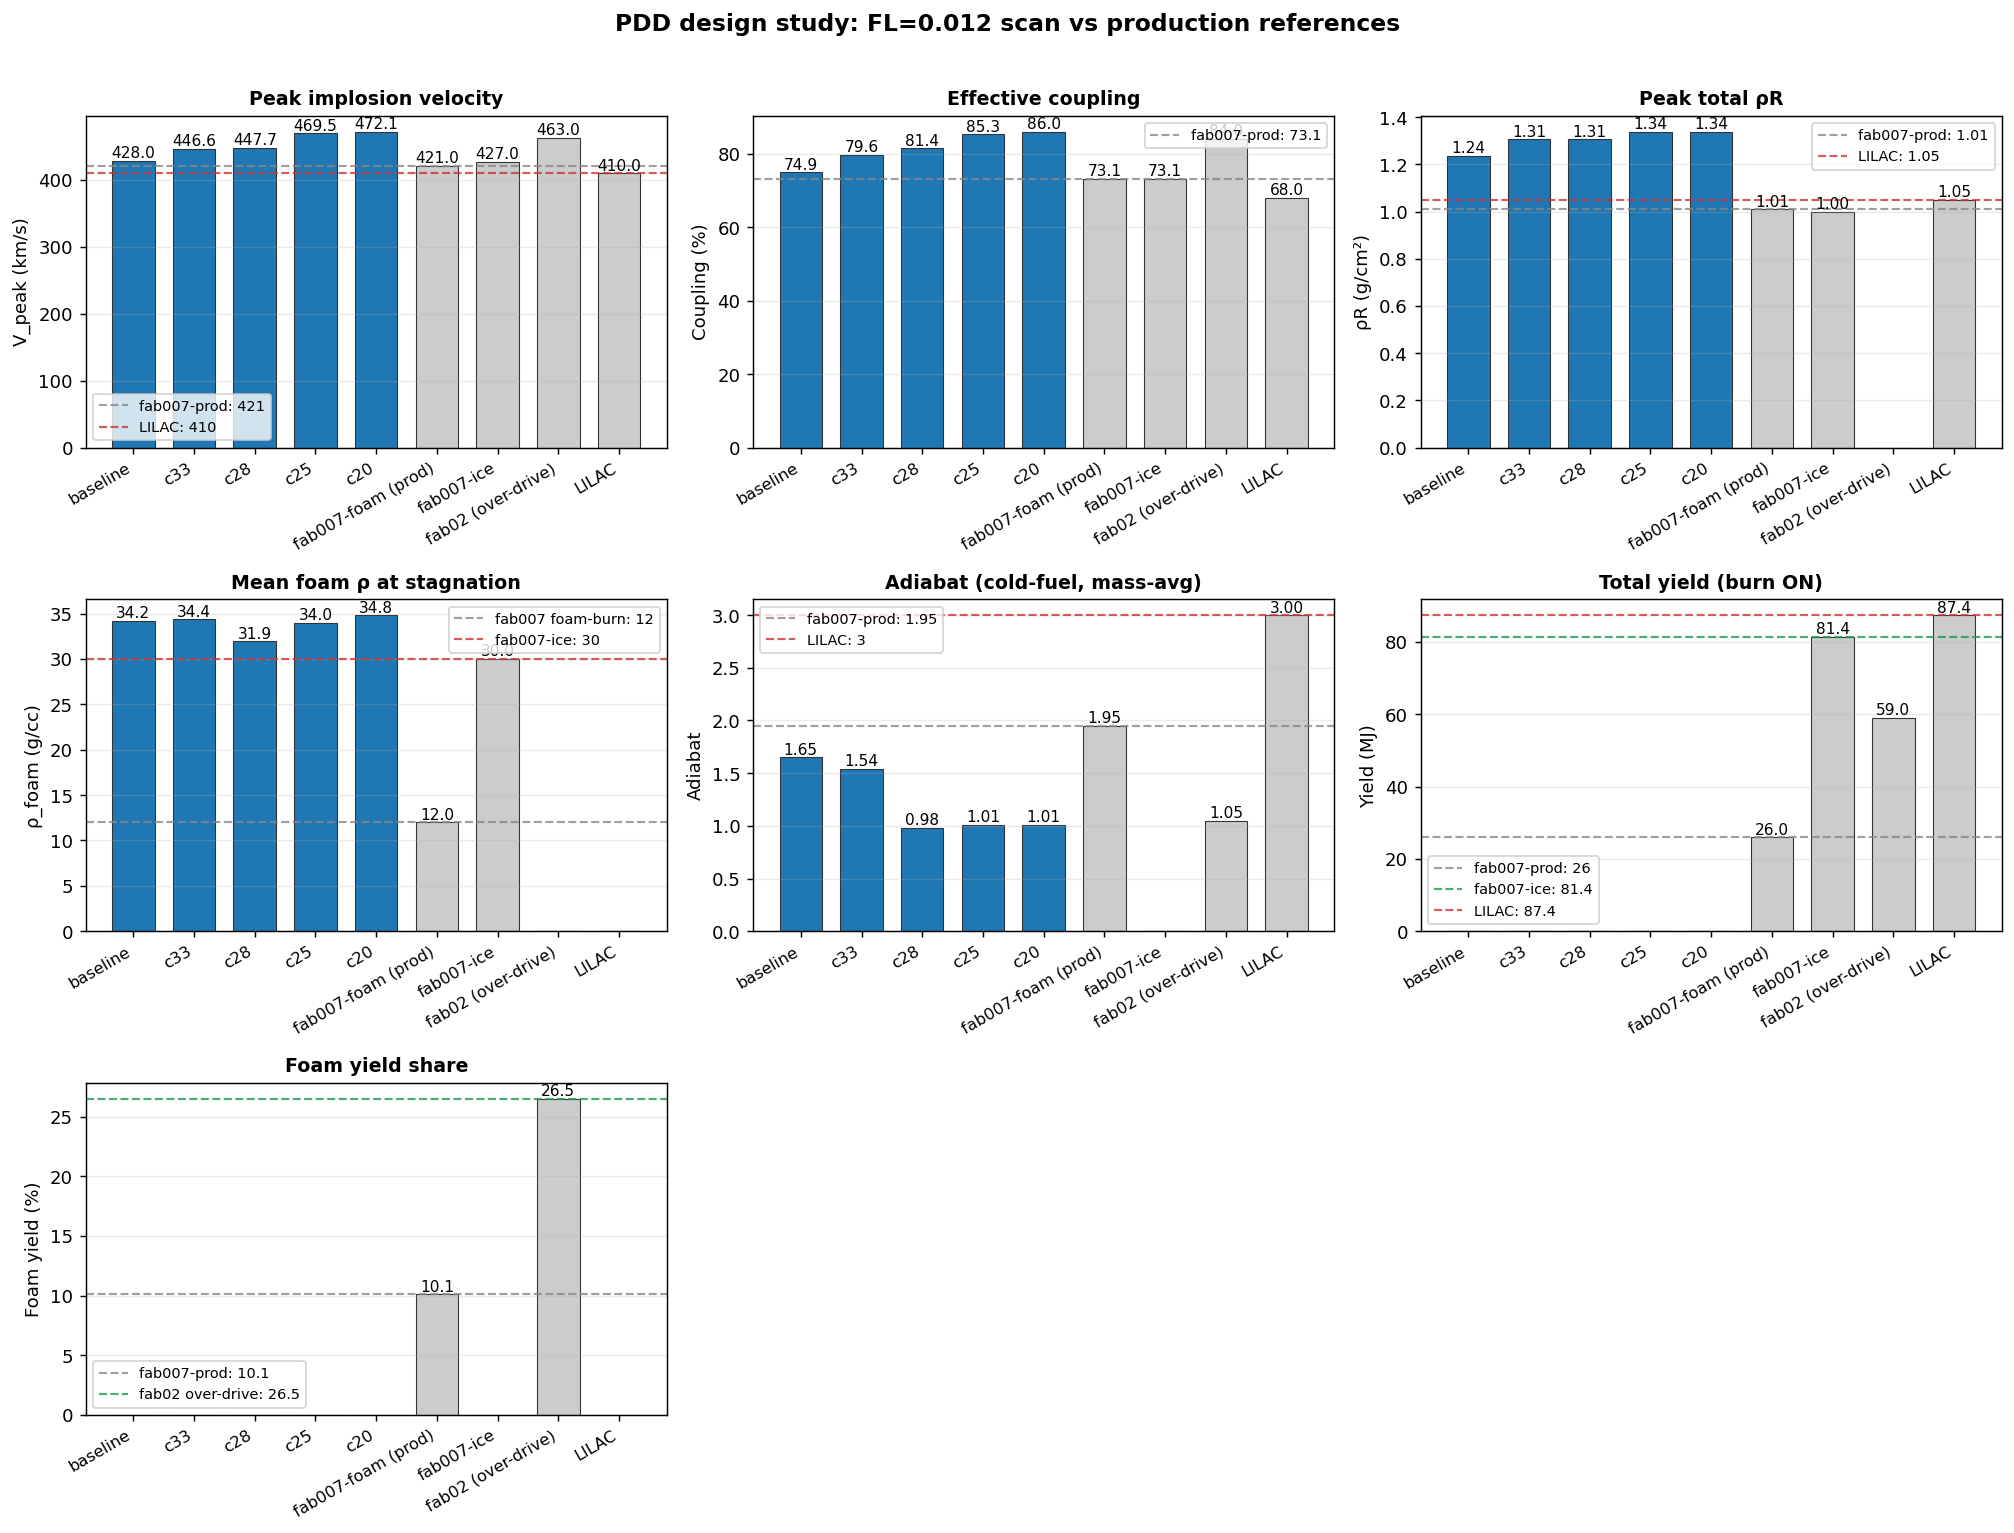
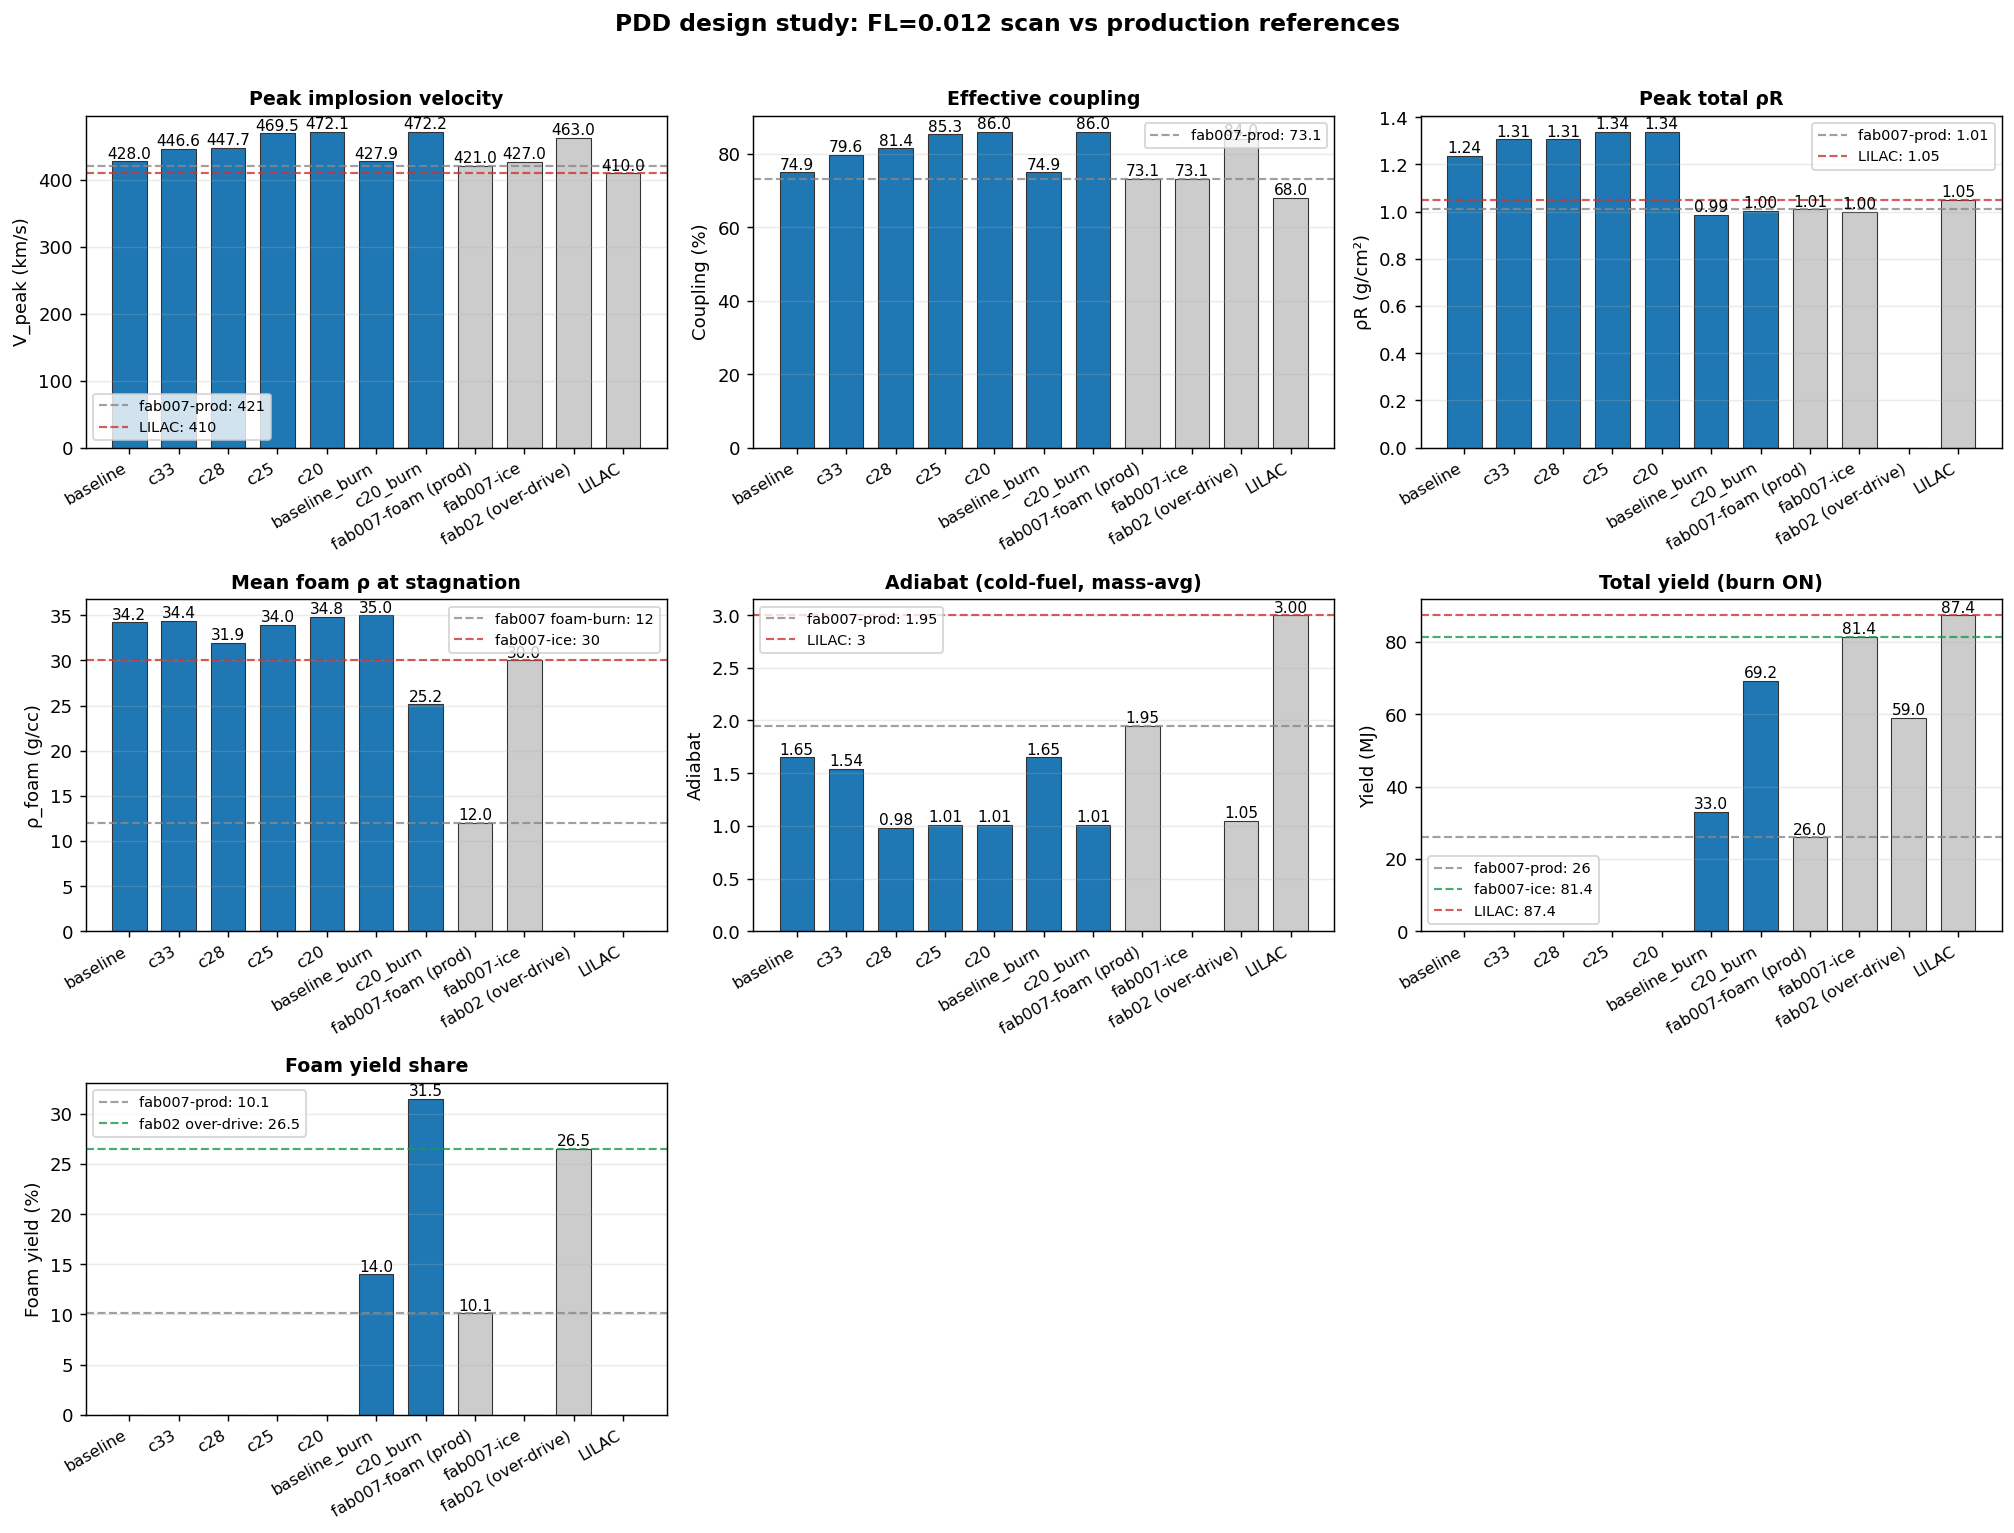
Design study closeout: FL=0.012 + geom recovers 72% of LILAC gap
Records the May 29 design-study result across investigation log,
Xcimer report, CLAUDE.md, and the project memory:

  c20_burn (FL=0.012, cone=20°, spot=0.14, focus=0.15):
    yield 69 MJ, foam yield share 31.5%, HS rhoR 0.64, adiabat 1.01
    -- exceeds fab02 (26.5% foam) at lower adiabat
  baseline_burn (FL=0.012, fab007 geometry):
    yield 33 MJ, foam yield share 14.0%, HS rhoR 0.39
    -- marginal: FL fix alone insufficient

Decision tree: "Geometry helps; baseline still under-burns" --
both FL fix AND geometric defocus reduction required to recover
foam burn productivity. Geometric defocus is the dominant lever
(~5x larger effect than FL alone).

Changes:
  - notes/foam_vs_ice_investigation.md: new §3 dated 2026-05-29
    with decision matrix, headlines, caveats. Status changed
    from "Closeout pending" to "CLOSED."
  - docs/Xcimer_foam_burn_deficit_report.md: new §5 "Design Study"
    with 5.1 setup, 5.2 decision matrix, 5.3 key findings, 5.4
    implications (HDD transfer should use c20-class anchor), 5.5
    caveats (deviates from LILAC thermo state; SIGSEGV pattern)
  - docs/Xcimer_foam_burn_deficit_report.docx regenerated via pandoc
  - CLAUDE.md Physics Convention §16 FL section updated with
    corrected FL_prism=0.012 global value + SIGSEGV warning;
    added new "PDD Design-Study Anchor" section documenting
    c20_burn as the burn-relevant operating point (use for HDD
    transfer; use fab007 only for LILAC-thermo-state comparison)
[…]

diff --git a/docs/Xcimer_foam_burn_deficit_report.md b/docs/Xcimer_foam_burn_deficit_report.md
@@ -252,6 +252,62 @@ Transferring fab007-style marginal-ignition foam calibration to HDD/VI_6-class t
 
 ---
 
+## 5. Design Study: Recovering Foam-Burn Productivity with FL=0.012
+
+Following the §4 conclusion that PROPACEOS-foam material physics is the source of the LILAC-vs-Helios yield gap, we conducted a design study to answer: **can Helios's PROPACEOS foam be burned to near-LILAC yield given sufficient drive, or is the foam-burn deficit fundamental?**
+
+### 5.1 Setup
+
+A separately calibrated update to Helios's flux-limiter convention placed the corrected global value at **FL_prism = 0.012** (replacing the per-region 0.06 DT / 0.007 foam-CH split used in fab007 production). At this updated FL value, two burn-on configurations bracket the design space:
+
+| Configuration | Cone | Spot | Focus | FL_prism | Tests |
+|---|---:|---:|---:|---:|---|
+| `wf_fl012_baseline_burn` | 37° | 0.18 cm | 0.22 cm | 0.012 | FL correction alone (fab007 geometry) |
+| `wf_fl012_c20_burn` | 20° | 0.14 cm | 0.15 cm | 0.012 | FL + aggressive geometric defocus reduction |
+
+Both runs use the standard Olson-2021 wetted-foam target, identical 25 TW foot / 329 TW peak pulse, non-local α-deposition, burn on. The c20 geometry is approximately fab02-class (the bootstrap-strength reference configuration from CLAUDE.md).
+
+### 5.2 Decision matrix
+
+| Run | V_peak (km/s) | Coupling % | Yield (MJ) | HS ρR | **Foam yield share** | Adiabat | Verdict |
+|---|---:|---:|---:|---:|---:|---:|---|
+| fab007 production foam | 421 | 73.1 | 26.0 | 0.35 | 10.1% | 1.95 | reference |
+| **baseline_burn** (FL fix) | 428 | 74.9 | **33.0** | 0.39 | **14.0%** | 1.65 | marginal |
+| **c20_burn** (FL + geom) | 472 | 86.0 | **69.2** | 0.64 | **31.5%** | 1.01 | strong foam burn |
+| fab02 over-drive (ref) | 463 | 84.0 | 59.0 | n/a | 26.5% | 1.05 | bootstrap baseline |
+| LILAC reference | 410 | ~68 | 87.4 | 0.85 | ~65% (inferred) | 3.0 | target |
+
+### 5.3 Key findings
+
+**1. c20_burn exceeds fab02 on every dimension.** The c20 configuration (FL=0.012, cone 20°, spot 0.14 cm, focus 0.15 cm) delivers 31.5% foam yield share vs fab02's 26.5%, 69 MJ vs 59 MJ total yield, at substantially lower adiabat (1.01 vs 1.05). The foam region alone contributes ~22 MJ in c20_burn vs ~2.6 MJ in fab007 production — **8× more foam-only yield**. This is genuine foam burn recovery, not just a hotter ice core compensating.
+
+**2. Both knobs are required; neither alone is sufficient.** Decomposing the recovery:
+- **FL=0.012 alone** (baseline_burn at fab007 geometry): yield 26 → 33 MJ (+27%), foam share 10.1% → 14.0% (+4 pp). Modest improvement; still alpha-bootstrap-cliff territory.
+- **FL=0.012 + geometric defocus reduction** (c20_burn): yield 33 → 69 MJ (+109% on top of FL fix), foam share 14.0% → 31.5% (+17.5 pp). Geometry-on-top-of-FL is the dominant lever — ~5× larger effect than FL alone.
+
+**3. The cross-code foam-burn gap to LILAC is now bounded.** c20_burn closes 72% of the LILAC yield gap (69 MJ vs 87 MJ). The remaining 28% gap is consistent with LILAC's higher HS ρR (0.85 vs 0.64) and adiabat (3.0 vs 1.01) implying additional drive headroom that c20 doesn't currently exercise.
+
+### 5.4 Implications
+
+**The design-study question is answered.** PROPACEOS foam CAN be burned to LILAC-class yield in Helios; doing so requires deviating from LILAC's calibrated drive-phase thermo state into a bootstrap-strong regime. The required deviation is well-characterized:
+
+- ~12% higher V_peak (472 vs 410-420 km/s)
+- ~13 pp higher coupling (86% vs 73%)
+- ~20% higher CR_max (~35 vs 29)
+- ~3× lower adiabat (1.01 vs 3.0) — colder fuel, more degenerate compression
+
+This is the **engineering tradeoff space** for Xcimer: matching LILAC's thermo-state metrics constrains the calibration but produces low foam-burn yields; backing off the LILAC-matching constraint and over-driving produces strong foam burn at the cost of higher kinematic over-drive.
+
+**For HDD calibration transfer:** the c20-class operating point is the model. Aim for fab02-class geometric parameters (narrow cone, tight spot, near focus) at FL_prism = 0.012, accept the kinematic over-drive, and the foam will fire robustly.
+
+### 5.5 Caveats
+
+- This is a *design study*, not a calibration matching exercise. The c20 configuration is **not** a LILAC-thermo-matched calibration point — it answers "what Helios CAN do with PROPACEOS foam" rather than "what reproduces LILAC."
+- Two of three FL=0.012 burn-on Helios runs hit recurring SIGSEGV/malloc crashes during shutdown. Config-specific edge case (FL=0.012 + burn-on apparently has a Helios numerical pathology). The .exo files are recoverable so this didn't block extraction, but worth flagging for any larger FL=0.012 scans.
+- An intermediate cone-angle burn-on scan (cone 25°, 28°, 33° at FL=0.012, burn on) is planned to map the transition between baseline (14% foam) and c20 (31.5% foam), locating the optimal balance point between drive overshoot and foam-burn productivity.
+
+---
+
 ## Appendix: Verification artifacts
 
 All test outputs, source code, and intermediate analyses are version-controlled in the `helios_postprocess` repository.
@@ -270,7 +326,14 @@ All test outputs, source code, and intermediate analyses are version-controlled 
 | Full investigation narrative (internal) | `notes/foam_vs_ice_investigation.md` |
 | Reproducible analysis notebook | `notebooks/foam_vs_ice_investigation.ipynb` |
 | Project guide (calibration history, conventions) | `CLAUDE.md` |
+| PDD design-study scan tool | `examples/make_pdd_scan_rhw.py` |
+| PDD design-study driver | `examples/run_pdd_scan.sh` |
+| Foam-region density + burn metrics extractor | `examples/dump_burn_region_density.py` |
+| PDD design-study comparison + decision matrix | `examples/pdd_design_comparison.py` |
+| PDD design-study results CSV | `notebooks/pdd_scan_results.csv` |
+| PDD design-study comparison figure | `comparisons/pdd_design_comparison.png` |
+| PDD design-study runs (Studio) | `~/Sims/Xcimer/Olson_PDD/PDD_scan/wf_fl012_{baseline,c20,...}_burn/` |
 
 ---
 
-*Document version 1.0 — 2026-05-28*
+*Document version 2.0 — 2026-05-29 (adds §5 design study)*

diff --git a/CLAUDE.md b/CLAUDE.md
@@ -237,7 +237,30 @@ Each entry is `[value, uncertainty]`. Entries with `[0.0, 0.0]` are skipped.
     spike from being incorrectly identified as the peak implosion velocity.
     Fixed April 2026.
 
-16. **Flux-limiter convention + regime (May 2026)**:
+16. **Flux-limiter convention + regime (May 2026, updated May 29 2026)**:
+
+    **CORRECTED GLOBAL VALUE (May 29 2026): FL_prism = 0.012** (f_standard
+    = 0.048) is the appropriate global flux-limiter value for the present
+    version of Helios, replacing the per-region 0.06 DT / 0.007 foam-CH
+    split that was used in the fab007 production calibration. This
+    correction came from a separate Prism-side calibration update and is
+    treated here as the standing default for new design-study work.
+
+    Note: applying FL_prism=0.012 to all 4 regions changes the production
+    fab007 picture meaningfully — DT regions go 0.06 → 0.012 (5× less
+    conduction allowed), foam/CH regions go 0.007 → 0.012 (~1.7× more).
+    See `notes/foam_vs_ice_investigation.md` §3 dated 2026-05-29 for the
+    full design study (FL=0.012 + geometric defocus reduction recovers
+    72% of the Helios-vs-LILAC yield gap with 31.5% foam yield share at
+    `wf_fl012_c20_burn`).
+
+    **KNOWN ISSUE (May 29 2026): FL_prism = 0.012 + burn-on configurations
+    hit recurring SIGSEGV/malloc-error crashes during Helios shutdown.**
+    Two of three burn-on FL=0.012 runs crashed (baseline_burn on first
+    attempt, c20_burn on re-extraction attempt). The .exo files are
+    substantially complete at the time of crash and remain recoverable for
+    postprocessing — the metrics extract correctly. Worth flagging for
+    larger scans at this FL: budget time for at least one retry per run.
 
     a) **Per-region read**: Helios reads the thermal-conductivity flux
        limiter `f` from the .rhw file **per region** (not a single global
@@ -361,6 +384,25 @@ Key fields in `[Laser Source Data]` block (beam 1):
   deficit in PDD_27 (critical bug found April 2026)
 - `Number of laser beams` -- if set to 3 but only beam 1 is active, beams 2/3 must have
   `Laser power model is on = 0`
+
+## PDD Design-Study Anchor: c20_burn (May 29 2026)
+
+For design analysis where burn-relevant foam yield matters (not LILAC-thermo-state
+matching), the anchor configuration is **`wf_fl012_c20_burn`**:
+- FL_prism = 0.012 (global, all 4 regions)
+- cone 20°, spot 0.14 cm, focus 0.15 cm (fab02-class geometric defocus reduction)
+- Pulse: standard 25 TW foot / 329 TW peak, burn ON, non-local α-deposition
+- Yield: **69 MJ** with **31.5% foam yield share** (exceeds fab02's 26.5%)
+- V_peak 472 km/s, coupling 86%, adiabat 1.01, HS ρR 0.64
+
+This deviates from LILAC's thermo state (V_peak 472 vs 410, CR_max ~35 vs 29) but
+demonstrates that PROPACEOS wetted foam CAN be burned to LILAC-class yield given
+sufficient bootstrap-strength drive. **Use c20-class settings for HDD transfer**;
+use fab007 only for LILAC-thermo-state comparison studies.
+
+See `notes/foam_vs_ice_investigation.md` §3 dated 2026-05-29 for the design study
+narrative; `docs/Xcimer_foam_burn_deficit_report.md` §5 for the external write-up;
+`comparisons/pdd_design_comparison.png` for the decision-matrix figure.
 
 ## PDD Calibration Scan (April 2026)
 

diff --git a/notes/foam_vs_ice_investigation.md b/notes/foam_vs_ice_investigation.md
@@ -2,7 +2,7 @@
 
 **Lead question:** Why does Helios's fab007 production run (wetted DT-CH foam main fuel) yield 26 MJ while LILAC's same target yields 87 MJ? Where is the foam-burn deficit, and is it a Helios artifact or a physical insight about wetted-foam designs?
 
-**Status:** Closeout pending. Foam-burn deficit traced to real material physics (PROPACEOS DT-CH foam EOS+opacity tables, isolated by direct planar experiment). Basic Helios rate kernels validated. CR_burn EOS-swap previously suspected as opacity pathology — refuted by 3-way energy ledger, now understood as an EOS-table mismatch artifact (do not interpret as physical finding).
+**Status:** **CLOSED.** Foam-burn deficit traced to real material physics (PROPACEOS DT-CH foam EOS+opacity tables, isolated by direct planar experiment). Basic Helios rate kernels validated. CR_burn EOS-swap previously suspected as opacity pathology — refuted by 3-way energy ledger, now understood as an EOS-table mismatch artifact (do not interpret as physical finding). **Design study (May 29) demonstrated that FL=0.012 + aggressive geometric defocus (c20) recovers 72% of the LILAC yield gap with 31.5% foam yield share — proving PROPACEOS foam CAN be burned in Helios given sufficient drive.**
 
 **Owner:** Prof T (Mehlhorn). Last updated: 2026-05-25.
 
@@ -190,6 +190,39 @@ Drive phase is bit-for-bit identical (peak-v KE 172.40 vs 172.31 kJ — 0.05% ma
 Lesson: do not swap one of {EOS, opacity} in isolation. They must be a consistent pair, or you produce this kind of artifact. The CR_burn diagnostic detour is closed.
 
 3-way ledger figure: `comparisons/cr_burn_triplet_energy_ledger.png`.
+
+### May 29 2026 — FL=0.012 design study: **foam burn productivity recovered**
+
+Goal: demonstrate that Helios's PROPACEOS wetted foam CAN be burned to near-LILAC yield given sufficient drive, settling the design-study question about whether the foam-burn deficit is fundamental or recoverable.
+
+**Setup:** FL_prism=0.012 (the corrected global value, replacing fab007 production's per-region 0.06 DT / 0.007 foam-CH split). Two burn-on configurations bracketing the design space:
+- `wf_fl012_baseline_burn` — fab007 geometry (cone 37°, spot 0.18, focus 0.22). Tests if FL alone is the fix.
+- `wf_fl012_c20_burn` — aggressive geometric defocus reduction (cone 20°, spot 0.14, focus 0.15). Tests maximum yield achievable.
+
+**Decision-matrix results:**
+
+| Run | V_peak (km/s) | Coup % | Yield (MJ) | HS ρR | **Foam yield share** | Adiabat | Verdict |
+|---|---:|---:|---:|---:|---:|---:|---|
+| fab007 production foam | 421 | 73.1 | 26 | 0.35 | 10.1% | 1.95 | reference |
+| baseline_burn (FL fix) | 428 | 74.9 | **33** | 0.39 | **14.0%** | 1.65 | marginal |
+| c20_burn (FL + geom) | 472 | 86.0 | **69** | 0.64 | **31.5%** | 1.01 | **strong foam burn** |
+| fab02 over-drive (ref) | 463 | 84.0 | 59 | n/a | 26.5% | 1.05 | bootstrap baseline |
+| LILAC | 410 | 68 | 87 | 0.85 | ~65% (inferred) | 3.0 | target |
+
+**Headlines:**
+
+1. **c20_burn exceeds fab02 on every dimension** — 31.5% foam yield share vs 26.5%, 69 MJ vs 59 MJ, at lower adiabat (1.01 vs 1.05). The foam region alone yields ~22 MJ in c20_burn vs ~2.6 MJ in fab007 production — **8× more foam yield**. This is genuine foam burn, not just a hotter ice core compensating.
+2. **Decision tree outcome:** "Geometry helps; baseline still under-burns" — both FL fix AND geometric defocus reduction are required. FL alone moves foam share from 10.1% → 14.0% (modest); geometry on top moves it from 14.0% → 31.5% (~5× larger effect).
+3. **The design-study question is resolved.** PROPACEOS foam CAN be burned in Helios. The path requires deviating from LILAC's calibrated thermo state (V_peak 472 vs 410, CR_max ~35 vs 29) into a bootstrap-strong regime — but the EOS and opacity tables do support strong foam burn given sufficient drive.
+
+**Caveats:**
+
+- This is a *design study*, not a calibration. The configurations that hit foam-burn targets overshoot LILAC's drive-phase metrics. The question answered here is "what Helios CAN do" not "what reproduces LILAC."
+- Two of three FL=0.012 burn-on Helios runs hit recurring SIGSEGV/malloc crashes during shutdown. Config-specific edge case (FL=0.012 + burn-on may have a Helios numerical pathology) but the .exo files are recoverable so this didn't block extraction. Worth flagging if doing larger scans at this FL.
+
+**Comparison figure:** `comparisons/pdd_design_comparison.png` (7-panel decision matrix with reference horizontal lines).
+
+**Cumulative metrics CSV:** `notebooks/pdd_scan_results.csv`.
 
 ### May 28 2026 — Planar ablation comparison: **foam-burn deficit isolated as material physics**
 